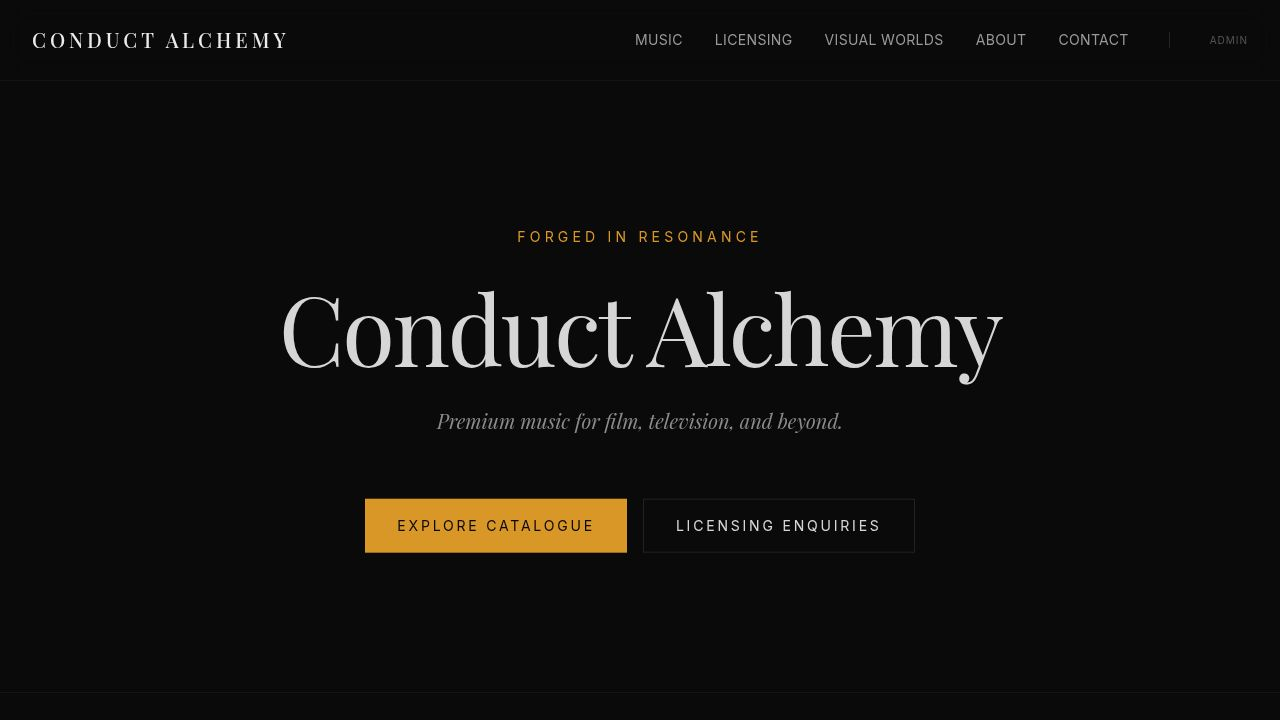
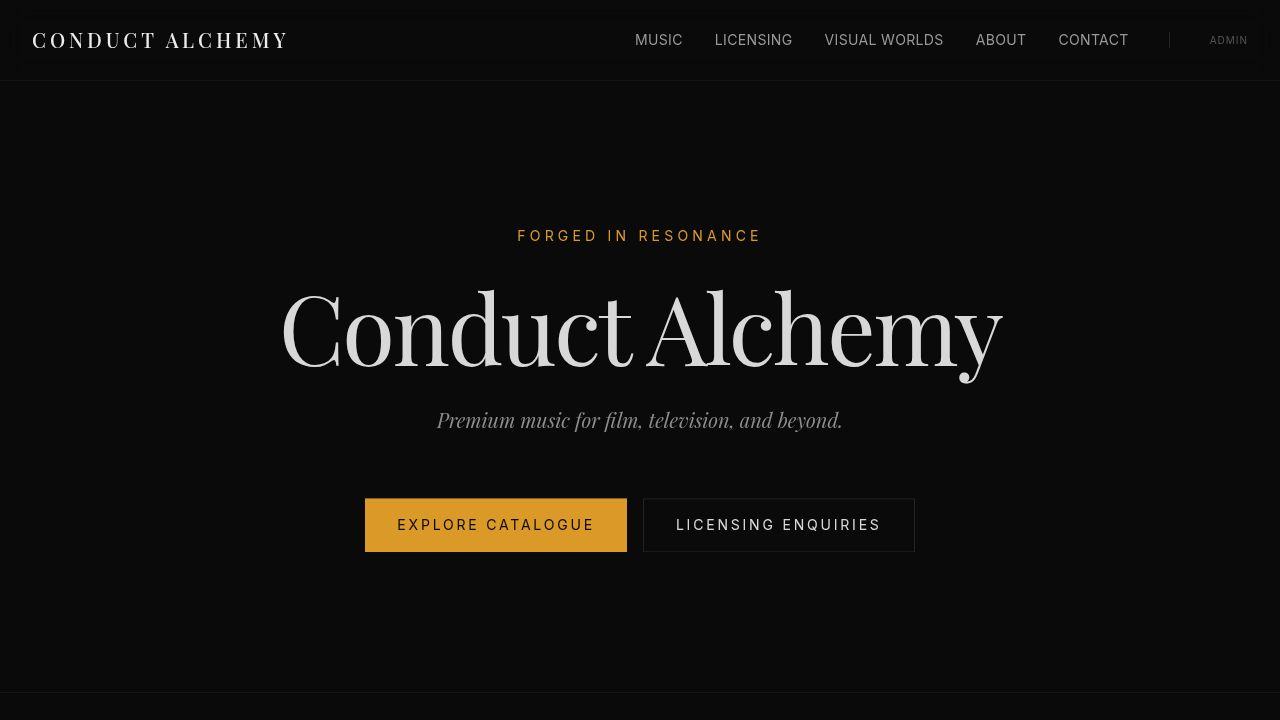
Add files via upload

diff --git a/src/pages/admin.tsx b/src/pages/admin.tsx
@@ -75,11 +75,18 @@ const EMPTY_TRACK: Track = {
   mood: [], bpm: 0, musicalKey: "", description: "", lyrics: "",
   licensingNotes: "", versions: [], visualConceptNotes: "", useCases: [],
   featured: false, heroTrack: false, featuredOrder: undefined,
-  accessStatus: "Public", audioUrl: "", previewAudioUrl: "", videoUrl: "",
+  accessStatus: "Public", audioUrl: "", previewAudioUrl: "", previewDuration: 45, videoUrl: "",
   coverArtUrl: "", collaborators: [],
   socialLinks: { youtube: "", instagram: "", spotify: "", soundcloud: "", tiktok: "" },
   createdAt: new Date().toISOString(),
 };
+
+// ---------------------------------------------------------------------------
+// Admin password — TEMPORARY MVP auth. Replace with Cloudflare Access in prod.
+// See: https://developers.cloudflare.com/cloudflare-one/applications/configure-apps/
+// ---------------------------------------------------------------------------
+const ADMIN_PASSWORD = "conduct2024"; // TODO: Replace with Cloudflare Access for production
+const AUTH_KEY = "ca_admin_auth";
 
 const ACCESS_STATUS_COLORS: Record<AccessStatus, string> = {
   Public: "text-green-400 border-green-400/30 bg-green-400/5",
@@ -229,7 +236,64 @@ function ValidationBadge({ result }: { result: MediaValidation | null }) {
 // Main component
 // ---------------------------------------------------------------------------
 
+// ---------------------------------------------------------------------------
+// Login screen
+// ---------------------------------------------------------------------------
+
+function AdminLogin({ onLogin }: { onLogin: () => void }) {
+  const [pw, setPw] = useState("");
+  const [err, setErr] = useState(false);
+  function submit(e: React.FormEvent) {
+    e.preventDefault();
+    if (pw === ADMIN_PASSWORD) {
+      localStorage.setItem(AUTH_KEY, "1");
+      onLogin();
+    } else {
+      setErr(true);
+      setPw("");
+    }
+  }
+  return (
+    <div className="min-h-screen flex items-center justify-center px-4">
+      <div className="w-full max-w-sm space-y-8">
+        <div className="text-center space-y-2">
+          <h1 className="text-3xl font-serif">Atelier / CMS</h1>
+          <p className="text-[10px] font-sans tracking-[0.2em] uppercase text-muted-foreground">Admin Access Required</p>
+        </div>
+        <form onSubmit={submit} className="space-y-4">
+          <div>
+            <label className="block text-[10px] font-sans tracking-[0.15em] text-muted-foreground uppercase mb-1.5">Password</label>
+            <input
+              type="password"
+              value={pw}
+              onChange={e => { setPw(e.target.value); setErr(false); }}
+              autoFocus
+              className="w-full bg-background border border-border/60 px-3 py-2 text-sm focus:outline-none focus:border-primary transition-colors"
+              placeholder="Enter admin password"
+            />
+            {err && (
+              <p className="text-[10px] font-sans text-red-400 mt-1.5">Incorrect password. Try again.</p>
+            )}
+          </div>
+          <button type="submit" className="w-full border border-primary/60 text-primary px-5 py-3 text-xs uppercase tracking-widest hover:bg-primary hover:text-primary-foreground transition-colors">
+            Sign In
+          </button>
+        </form>
+        <p className="text-[9px] font-sans text-muted-foreground/40 text-center leading-relaxed">
+          For production, replace this password gate with Cloudflare Access.<br />
+          This is a temporary MVP auth layer only.
+        </p>
+      </div>
+    </div>
+  );
+}
+
+// ---------------------------------------------------------------------------
+// Main Admin component
+// ---------------------------------------------------------------------------
+
 export default function Admin() {
+  const [authed, setAuthed] = useState(() => localStorage.getItem(AUTH_KEY) === "1");
   const [activeTab, setActiveTab] = useState<AdminTab>("dashboard");
   const [tracks, setTracks] = useState<Track[]>([]);
   const [siteContent, setContent] = useState<SiteContent | null>(null);
@@ -461,6 +525,7 @@ export default function Admin() {
       accessStatus: (str("accessStatus") as AccessStatus) || "Public",
       audioUrl: str("audioUrl") || undefined,
       previewAudioUrl: str("previewAudioUrl") || undefined,
+      previewDuration: str("previewDuration") ? Number(str("previewDuration")) : 45,
       videoUrl: str("videoUrl") || undefined,
       coverArtUrl: str("coverArtUrl") || undefined,
       collaborators: str("collaborators").split(",").map(s => s.trim()).filter(Boolean),
@@ -670,6 +735,8 @@ export default function Admin() {
     );
   };
 
+  if (!authed) return <AdminLogin onLogin={() => setAuthed(true)} />;
+
   if (!siteContent) return null;
 
   // ---------------------------------------------------------------------------
@@ -744,8 +811,14 @@ export default function Admin() {
           <p className="text-sm text-muted-foreground mt-2 font-sans">Dashboard, catalogue, access log, site content, and media testing.</p>
         </div>
         <div className="flex flex-col items-end gap-3">
-          <div className="flex items-center gap-4 flex-wrap justify-end">
+          <div className="flex items-center gap-3 flex-wrap justify-end">
             {importStatus && <span className="text-xs tracking-widest text-primary animate-pulse">{importStatus}</span>}
+            <button
+              onClick={() => { localStorage.removeItem(AUTH_KEY); setAuthed(false); }}
+              className="text-[10px] uppercase tracking-widest text-muted-foreground/60 border border-border/30 px-3 py-2 hover:border-red-400/40 hover:text-red-400/70 transition-colors"
+            >
+              Sign Out
+            </button>
             <div className="flex flex-col items-end gap-1">
               <button
                 onClick={handleExport}
@@ -1091,9 +1164,25 @@ export default function Admin() {
                     )}
                   </div>
                   <div>
-                    <label className={labelCls}>Preview Audio URL (45s clip)</label>
+                    <label className={labelCls}>Preview Duration (seconds)</label>
                     <p className="text-[9px] font-sans text-muted-foreground/50 mb-1.5 leading-relaxed">
-                      Optional short clip for private tracks. If omitted, the player will time-limit the full audio URL to 45 seconds.
+                      How many seconds a private/locked visitor can hear before the unlock prompt appears. Default: 45.
+                      For stronger protection, upload a separate watermarked preview file (see field below).
+                    </p>
+                    <input
+                      name="previewDuration"
+                      type="number"
+                      min="5"
+                      max="300"
+                      defaultValue={editingTrack.previewDuration ?? 45}
+                      className={inputCls}
+                    />
+                  </div>
+                  <div>
+                    <label className={labelCls}>Preview Audio URL (optional separate clip)</label>
+                    <p className="text-[9px] font-sans text-muted-foreground/50 mb-1.5 leading-relaxed">
+                      Optional: upload a separate watermarked or shortened preview file. If provided, this clip plays instead of time-limiting the full audio.
+                      For MVP, the preview duration above limits the full file. For stronger protection, upload a watermarked file here later.
                     </p>
                     <div className="flex gap-2">
                       <input id="input-previewAudioUrl" name="previewAudioUrl" defaultValue={editingTrack.previewAudioUrl || ""} placeholder="https://example.com/preview.mp3" className={`${inputCls} flex-1`} />

diff --git a/src/pages/track-detail.tsx b/src/pages/track-detail.tsx
@@ -1,7 +1,7 @@
 import { useEffect, useState } from "react";
 import { getTrack, getPreviewTracks, Track, AccessStatus, type SocialLinks } from "@/lib/cms";
 import { isTrackUnlocked } from "@/lib/access";
-import { getVideoEmbedUrl, isGoogleDriveUrl } from "@/lib/media";
+import { getVideoEmbedUrl, isGoogleDriveUrl, detectEmbedPlatform } from "@/lib/media";
 import { useSEO } from "@/hooks/use-seo";
 import { useRoute, Link } from "wouter";
 import { TrackPlayer } from "@/components/track-player";
@@ -139,6 +139,8 @@ export default function TrackDetail() {
   const embedUrl = track.videoUrl ? getVideoEmbedUrl(track.videoUrl) : null;
   const hasUnsupportedVideoUrl = !!(track.videoUrl && !embedUrl);
   const hasSocialLinks = track.socialLinks && Object.values(track.socialLinks).some(Boolean);
+  const videoPlatform = track.videoUrl ? detectEmbedPlatform(track.videoUrl) : null;
+  const isYouTube = videoPlatform === "youtube";
 
   return (
     <>
@@ -233,6 +235,7 @@ export default function TrackDetail() {
               <TrackPlayer
                 audioUrl={track.audioUrl}
                 previewAudioUrl={track.previewAudioUrl}
+                previewDuration={track.previewDuration}
                 isPrivate={isPrivate}
                 isUnlocked={unlocked}
                 trackTitle={track.title}
@@ -241,35 +244,72 @@ export default function TrackDetail() {
               />
             </div>
 
-            {/* Video Embed */}
-            {(!isPrivate || unlocked) && embedUrl && (
+            {/* Video section — YouTube "Watch" button always visible; embed only when unlocked/public */}
+            {track.videoUrl && (
               <div className="mb-16">
                 <h2 className={`text-xs font-sans tracking-[0.2em] uppercase mb-6 ${art ? "text-[#1a1510]/50" : "text-muted-foreground"}`}>Video</h2>
-                <div className="relative w-full aspect-video border border-border/30 overflow-hidden">
-                  <iframe
-                    src={embedUrl}
-                    title={`${track.title} video`}
-                    allow="accelerometer; autoplay; clipboard-write; encrypted-media; gyroscope; picture-in-picture"
-                    allowFullScreen
-                    className="absolute inset-0 w-full h-full"
-                    loading="lazy"
-                  />
-                </div>
-              </div>
-            )}
 
-            {/* Unsupported video URL */}
-            {(!isPrivate || unlocked) && hasUnsupportedVideoUrl && (
-              <div className="mb-16">
-                <h2 className={`text-xs font-sans tracking-[0.2em] uppercase mb-6 ${art ? "text-[#1a1510]/50" : "text-muted-foreground"}`}>Video</h2>
-                <div className={`border px-5 py-4 flex items-start gap-3 ${art ? "border-[#1a1510]/20 bg-[#ede5d0]" : "border-amber-400/20 bg-amber-400/5"}`}>
-                  <span className={`text-sm shrink-0 mt-0.5 ${art ? "text-[#5c4a28]" : "text-amber-400"}`}>⚠</span>
-                  <p className={`text-xs font-sans leading-relaxed ${art ? "text-[#3a2e1e]/70" : "text-amber-400/80"}`}>
-                    {track.videoUrl && isGoogleDriveUrl(track.videoUrl)
-                      ? "Google Drive links cannot be embedded. Use YouTube, Vimeo, Spotify, or SoundCloud for video embedding."
-                      : "This URL format is not supported for embedding. Supported platforms: YouTube, Vimeo, Spotify, SoundCloud."}
-                  </p>
-                </div>
+                {/* Responsive embed (only for unlocked / public tracks) */}
+                {(!isPrivate || unlocked) && embedUrl && (
+                  <div className="relative w-full aspect-video border border-border/30 overflow-hidden mb-4">
+                    <iframe
+                      src={embedUrl}
+                      title={`${track.title} video`}
+                      allow="accelerometer; autoplay; clipboard-write; encrypted-media; gyroscope; picture-in-picture"
+                      allowFullScreen
+                      className="absolute inset-0 w-full h-full"
+                      loading="lazy"
+                    />
+                  </div>
+                )}
+
+                {/* "Watch on YouTube" external link — always visible when YouTube URL present */}
+                {isYouTube && (
+                  <a
+                    href={track.videoUrl}
+                    target="_blank"
+                    rel="noopener noreferrer"
+                    className={`inline-flex items-center gap-3 text-xs font-sans tracking-widest uppercase border px-5 py-3 transition-colors ${
+                      art
+                        ? "border-[#b5a882] text-[#5c4a28] hover:bg-[#b5a882] hover:text-white"
+                        : "border-border/60 text-muted-foreground hover:border-primary/60 hover:text-primary"
+                    }`}
+                  >
+                    <svg viewBox="0 0 20 14" fill="none" className="w-4 h-4 shrink-0">
+                      <rect width="20" height="14" rx="3" fill="currentColor" fillOpacity="0.15"/>
+                      <path d="M8 4.5l6 3-6 3V4.5z" fill="currentColor"/>
+                    </svg>
+                    Watch on YouTube
+                  </a>
+                )}
+
+                {/* External link for other embeddable platforms (not YouTube) */}
+                {videoPlatform && !isYouTube && (
+                  <a
+                    href={track.videoUrl}
+                    target="_blank"
+                    rel="noopener noreferrer"
+                    className={`inline-flex items-center gap-2 text-xs font-sans tracking-widest uppercase border px-5 py-3 transition-colors ${
+                      art
+                        ? "border-[#b5a882] text-[#5c4a28] hover:bg-[#b5a882] hover:text-white"
+                        : "border-border/60 text-muted-foreground hover:border-primary/60 hover:text-primary"
+                    }`}
+                  >
+                    ↗ Open on {videoPlatform.charAt(0).toUpperCase() + videoPlatform.slice(1)}
+                  </a>
+                )}
+
+                {/* Unsupported URL warning */}
+                {hasUnsupportedVideoUrl && (
+                  <div className={`border px-5 py-4 flex items-start gap-3 ${art ? "border-[#1a1510]/20 bg-[#ede5d0]" : "border-amber-400/20 bg-amber-400/5"}`}>
+                    <span className={`text-sm shrink-0 mt-0.5 ${art ? "text-[#5c4a28]" : "text-amber-400"}`}>⚠</span>
+                    <p className={`text-xs font-sans leading-relaxed ${art ? "text-[#3a2e1e]/70" : "text-amber-400/80"}`}>
+                      {isGoogleDriveUrl(track.videoUrl)
+                        ? "Google Drive links cannot be embedded. Use YouTube, Vimeo, Spotify, or SoundCloud for video embedding."
+                        : "This URL format is not supported for embedding. Supported platforms: YouTube, Vimeo, Spotify, SoundCloud."}
+                    </p>
+                  </div>
+                )}
               </div>
             )}
 

diff --git a/vite.config.ts b/vite.config.ts
@@ -2,21 +2,70 @@ import { defineConfig } from "vite";
 import react from "@vitejs/plugin-react";
 import tailwindcss from "@tailwindcss/vite";
 import path from "path";
+import runtimeErrorOverlay from "@replit/vite-plugin-runtime-error-modal";
+
+const isBuild = process.env.NODE_ENV === "production" || process.argv.includes("build");
+
+const rawPort = process.env.PORT;
+const port = rawPort ? Number(rawPort) : 3000;
+
+// BASE_PATH defaults to "/" for Cloudflare Pages compatibility
+const basePath = process.env.BASE_PATH || "/";
+
+if (!isBuild) {
+  if (!process.env.PORT) {
+    throw new Error("PORT environment variable is required for dev server.");
+  }
+  if (Number.isNaN(port) || port <= 0) {
+    throw new Error(`Invalid PORT value: "${rawPort}"`);
+  }
+}
 
 export default defineConfig({
-  base: "/",
+  base: basePath,
   plugins: [
     react(),
     tailwindcss(),
+    runtimeErrorOverlay(),
+    ...(process.env.NODE_ENV !== "production" &&
+    process.env.REPL_ID !== undefined
+      ? [
+          await import("@replit/vite-plugin-cartographer").then((m) =>
+            m.cartographer({
+              root: path.resolve(import.meta.dirname, ".."),
+            }),
+          ),
+          await import("@replit/vite-plugin-dev-banner").then((m) =>
+            m.devBanner(),
+          ),
+        ]
+      : []),
   ],
   resolve: {
     alias: {
       "@": path.resolve(import.meta.dirname, "src"),
+      "@assets": path.resolve(import.meta.dirname, "..", "..", "attached_assets"),
     },
     dedupe: ["react", "react-dom"],
   },
+  root: path.resolve(import.meta.dirname),
   build: {
-    outDir: "dist",
+    // Output to dist — Cloudflare Pages deploy from the dist directory
+    outDir: path.resolve(import.meta.dirname, "dist"),
     emptyOutDir: true,
+  },
+  server: {
+    port,
+    strictPort: true,
+    host: "0.0.0.0",
+    allowedHosts: true,
+    fs: {
+      strict: true,
+    },
+  },
+  preview: {
+    port,
+    host: "0.0.0.0",
+    allowedHosts: true,
   },
 });

diff --git a/src/components/track-player.tsx b/src/components/track-player.tsx
@@ -1,10 +1,12 @@
 import { useRef, useState, useEffect, useCallback } from "react";
 
-const PREVIEW_SECONDS = 45;
+const DEFAULT_PREVIEW_SECONDS = 45;
 
 interface TrackPlayerProps {
   audioUrl?: string;
   previewAudioUrl?: string;
+  /** Per-track preview duration in seconds. Defaults to 45. */
+  previewDuration?: number;
   isPrivate: boolean;
   isUnlocked: boolean;
   trackTitle: string;
@@ -35,12 +37,14 @@ function isGoogleDrive(url: string): boolean {
 export function TrackPlayer({
   audioUrl,
   previewAudioUrl,
+  previewDuration,
   isPrivate,
   isUnlocked,
   trackTitle,
   isArtefactMode = false,
   onRequestUnlock,
 }: TrackPlayerProps) {
+  const PREVIEW_SECONDS = previewDuration ?? DEFAULT_PREVIEW_SECONDS;
   const audioRef = useRef<HTMLAudioElement | null>(null);
   const [playing, setPlaying] = useState(false);
   const [currentTime, setCurrentTime] = useState(0);

diff --git a/src/lib/cms.ts b/src/lib/cms.ts
@@ -34,6 +34,7 @@ export interface Track {
   accessStatus: AccessStatus;
   audioUrl?: string;
   previewAudioUrl?: string;
+  previewDuration?: number;   // seconds; default 45 when undefined
   videoUrl?: string;
   coverArtUrl?: string;
   collaborators?: string[];
@@ -251,6 +252,7 @@ function migrateTracks(tracks: Track[]): Track[] {
     collaborators: Array.isArray(t.collaborators) ? t.collaborators : [],
     socialLinks: t.socialLinks ?? {},
     featured: t.featured ?? false,
+    previewDuration: t.previewDuration ?? 45,
   }));
 }
 
